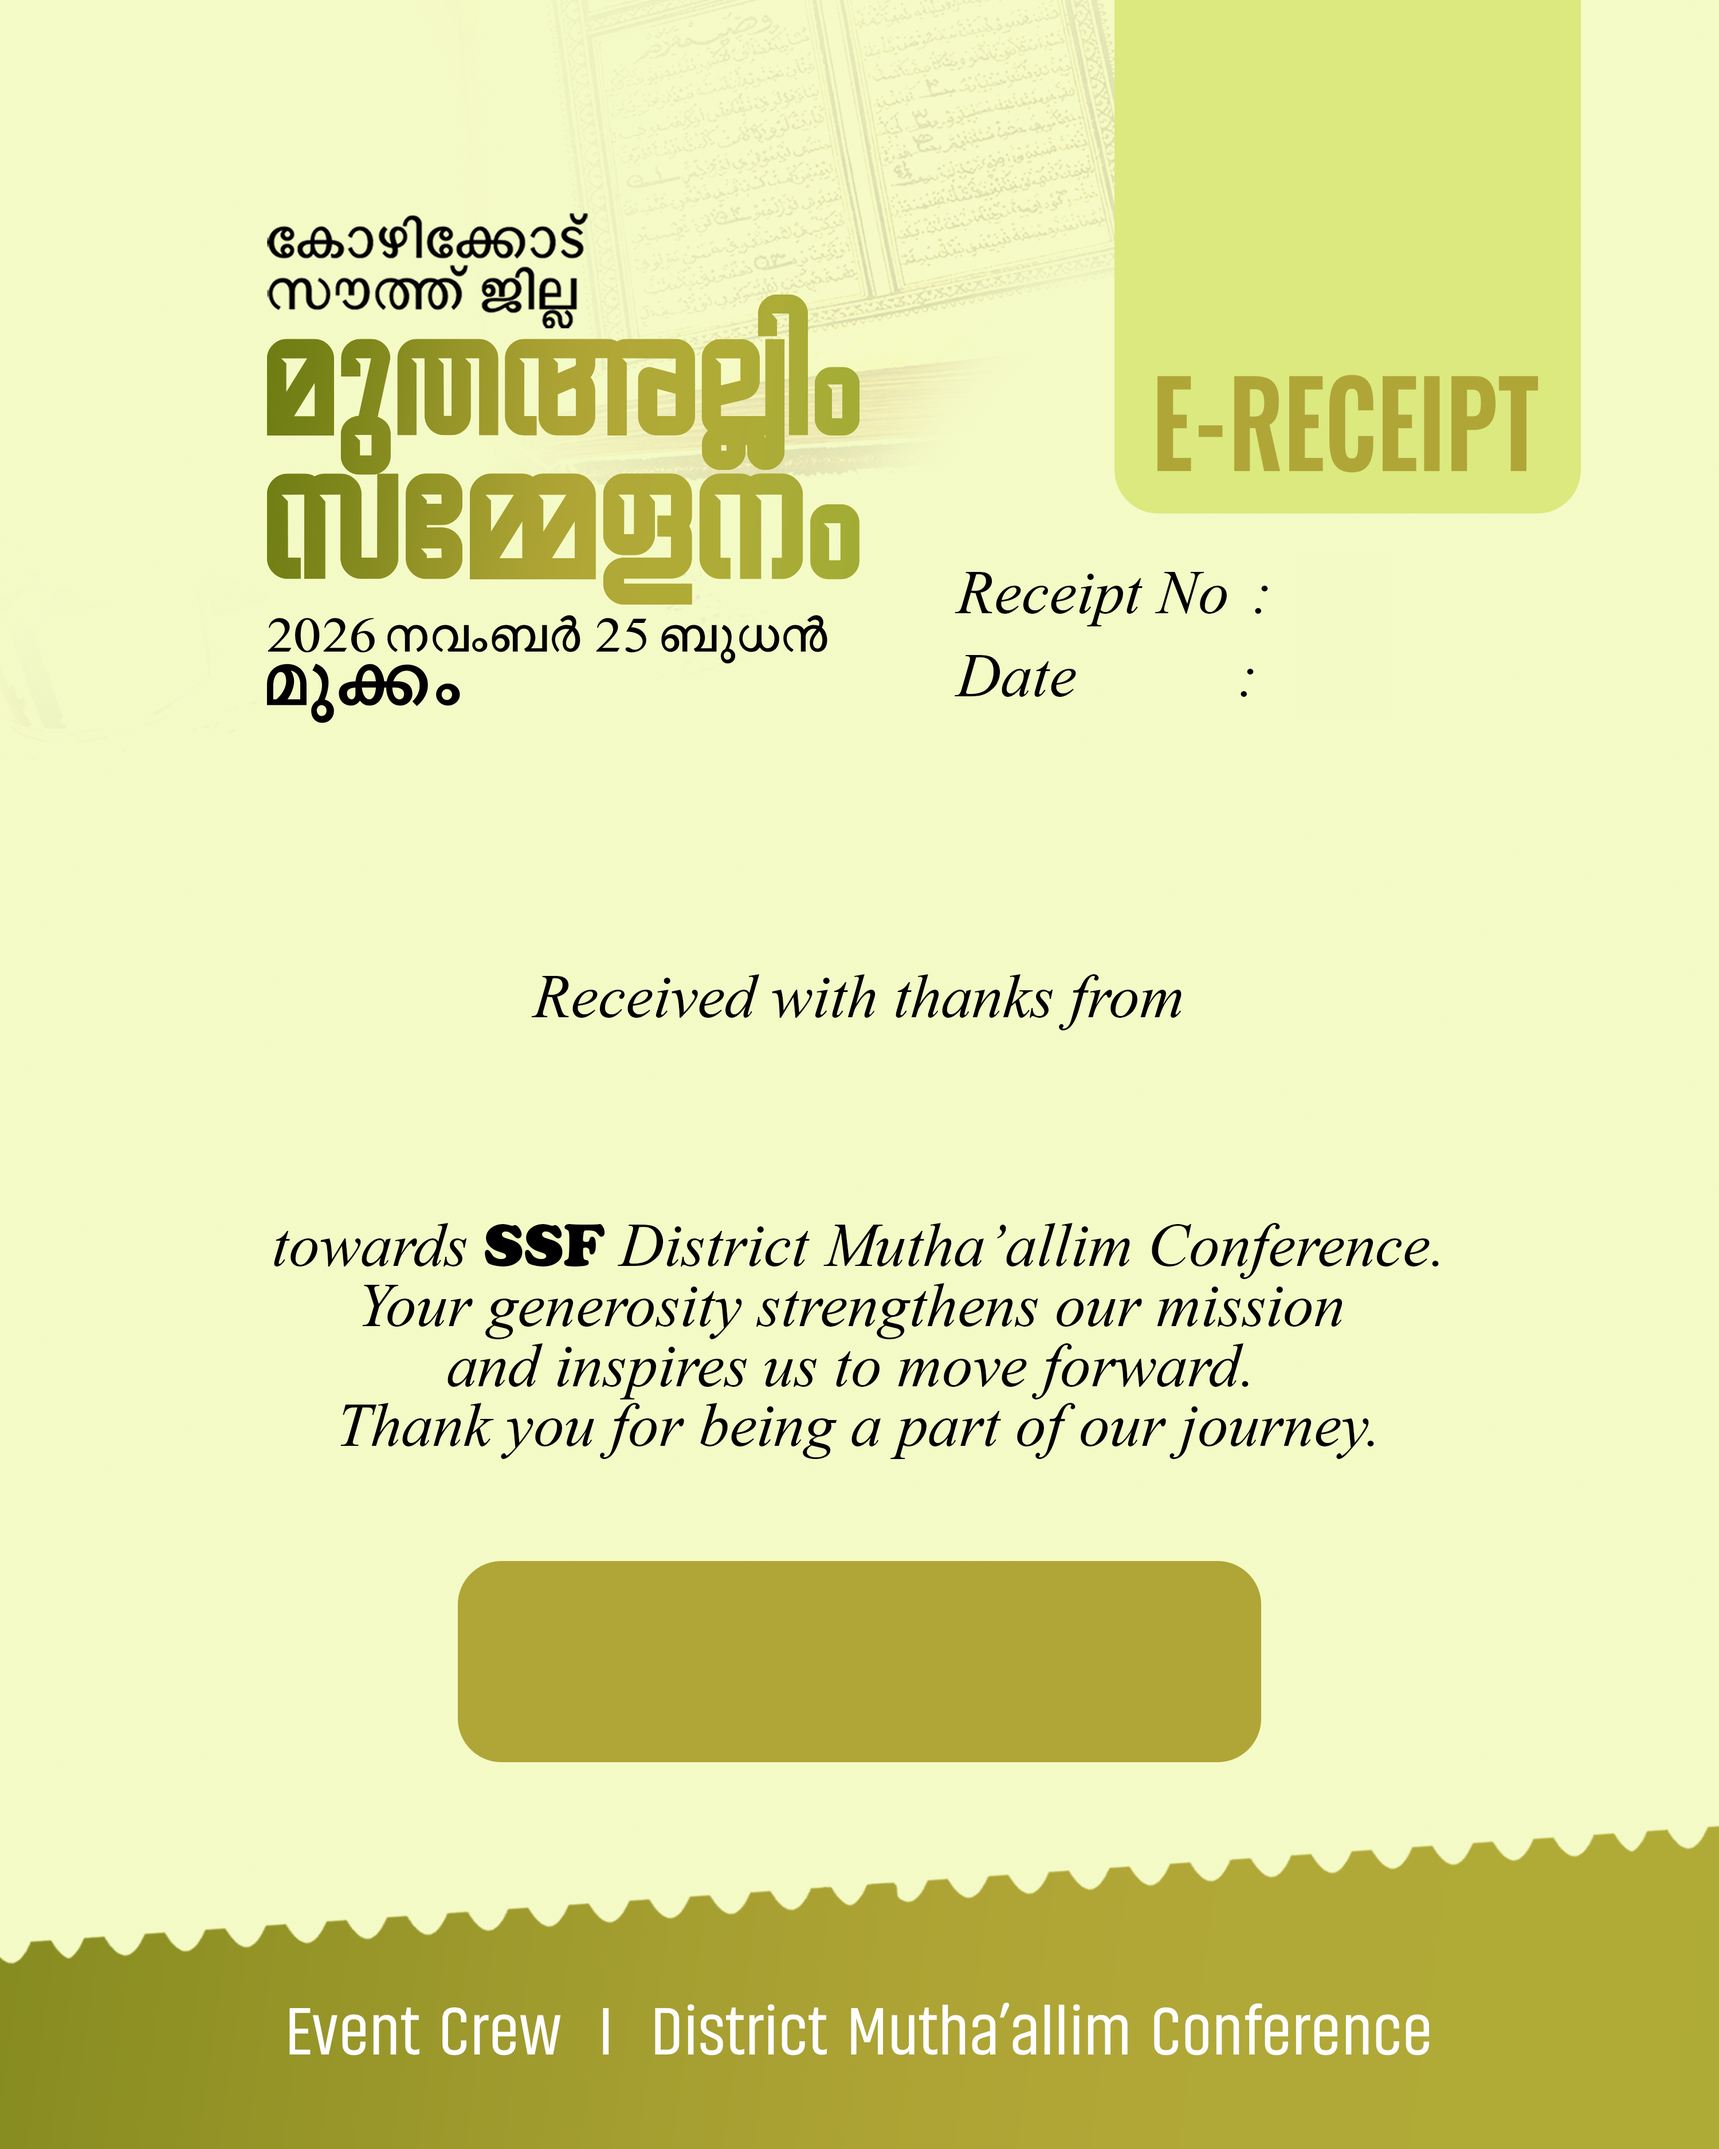
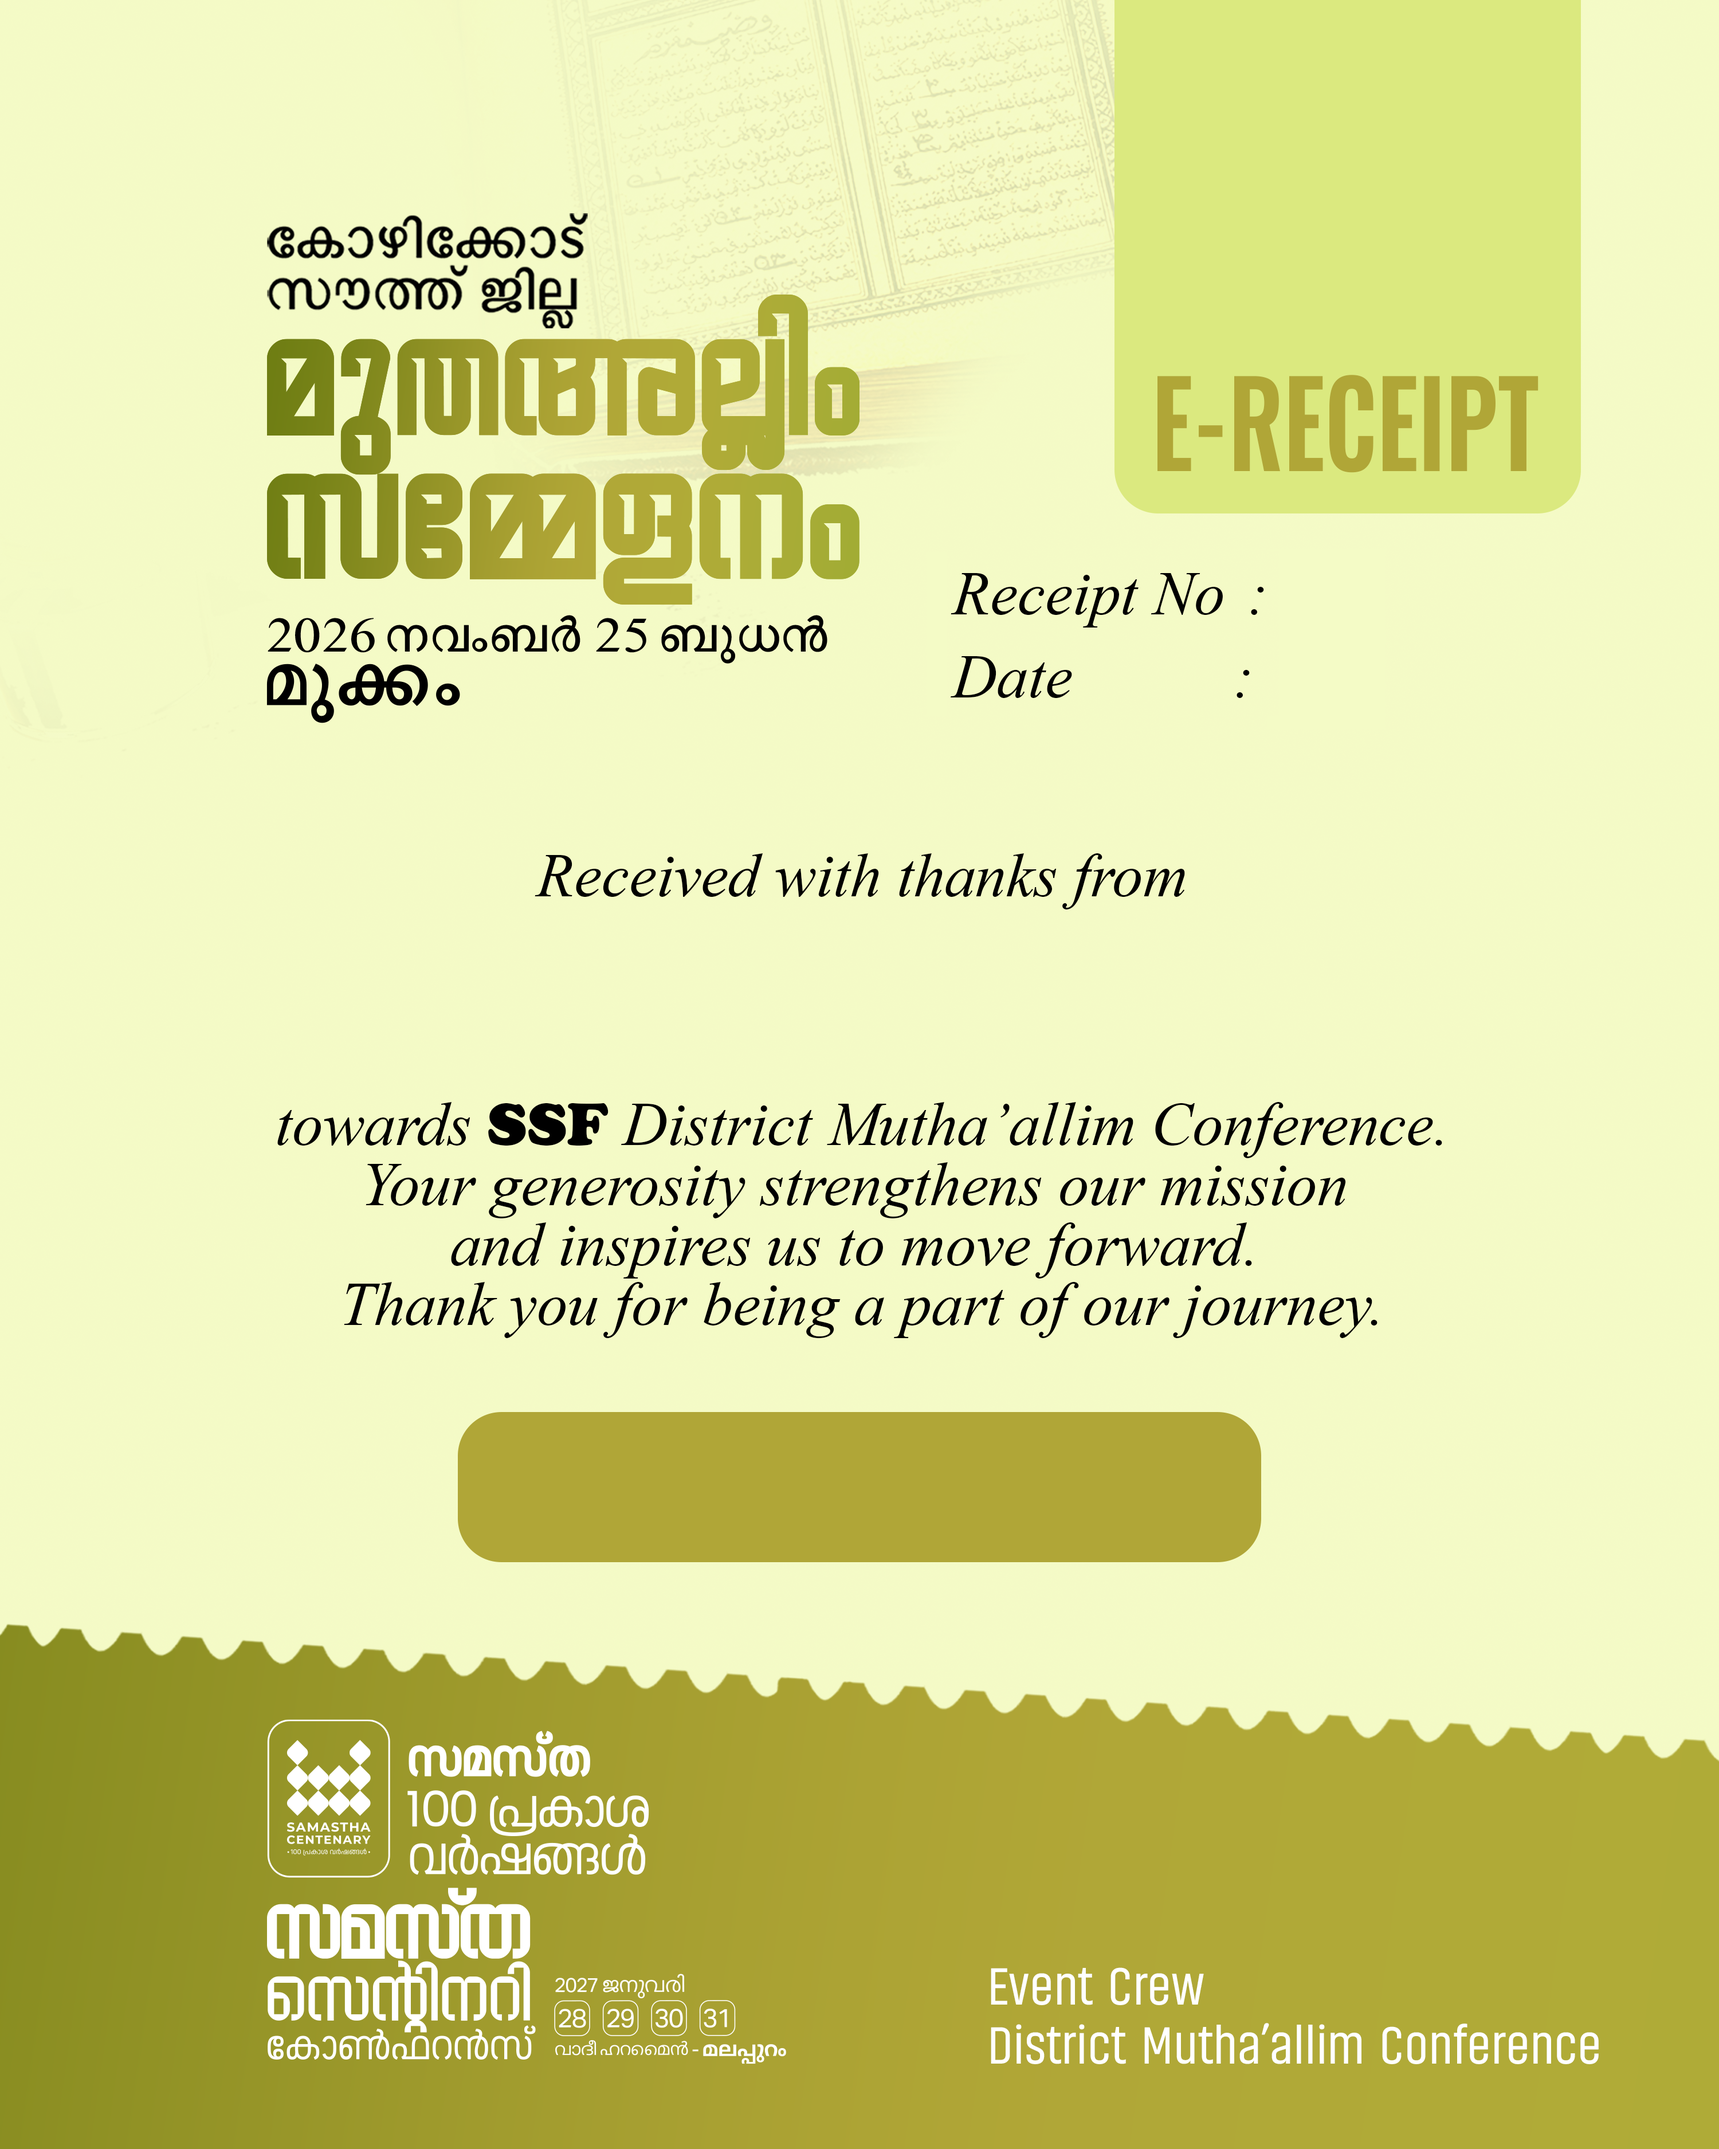
mr change

diff --git a/src/components/IncomeReceipt.tsx b/src/components/IncomeReceipt.tsx
@@ -140,7 +140,7 @@ export function IncomeReceipt({ receipt }: { receipt: ReceiptDetails }) {
         context,
         sender,
         width / 2,
-        canvas.height * 0.522,
+        canvas.height * 0.465,
         nameWidth,
         fitText(
           sender,
@@ -174,7 +174,7 @@ export function IncomeReceipt({ receipt }: { receipt: ReceiptDetails }) {
 
       const amountGroupWidth = rupeeWidth + iconGap + valueWidth;
       const amountLeft = (width - amountGroupWidth) / 2;
-      const amountY = canvas.height * 0.775;
+      const amountY = canvas.height * 0.696;
       drawText(context, '₹', amountLeft, amountY, rupeeWidth, rupeeFont, 'left', amountColor);
       drawText(
         context,

diff --git a/README.md b/README.md
@@ -12,7 +12,7 @@ Mobile-first event finance web application built with Next.js, Auth.js, MongoDB/
 
 ## Workflow
 
-Super Admin can add a team from that event's Teams tab, optionally setting its event-specific target; teams can be renamed and their event target edited there as well. Teams with no manager assignments in any event can also be removed from a team card. Teams are assigned per event: when adding managers to an event, the Super Admin can select one team and manager target for all selected managers or leave them unassigned. Existing event assignments can be edited per manager to change their team and target. For each event, the Super Admin can set an event-wide target, individual manager targets, and targets for teams. The Events page shows Managers, Teams, Sector, and Unit tabs with tab-specific filters; the share action includes only the selected tab's filtered results. It also shows collected income, target progress and remaining target balance for each event and ranks managers by income collected; manager cards include assigned team, expenses and cumulative handovers paid to the Super Admin. Admins can record manager handovers up to that manager's unhanded recorded income; income edits cannot reduce recorded income below completed handovers. Managers with no income or approved/pending expenses can be unassigned. The active event is the landing screen for assigned users and shows the event-wide goal to the Super Admin and the individual goal to each manager. After income is recorded, the app opens an e-receipt using `public/ereciept.png`; both managers and Super Admins can download or share authorized receipts from the receipt page and transaction history. Managers add income immediately, but expenses remain PENDING until approved by the Super Admin. Only approved expenses lower the displayed balance. An event cannot be marked completed while pending expenses remain.
+Super Admin can add a team from that event's Teams tab, optionally setting its event-specific target; teams can be renamed and their event target edited there as well. Teams with no manager assignments in any event can also be removed from a team card. Teams are assigned per event: when adding managers to an event, the Super Admin can select one team and manager target for all selected managers or leave them unassigned. Existing event assignments can be edited per manager to change their team and target. For each event, the Super Admin can set an event-wide target, individual manager targets, and targets for teams. The Events page shows Managers, Teams, Sector, and Unit tabs with tab-specific filters; the share action includes only the selected tab's filtered results. It also shows collected income, target progress and remaining target balance for each event and ranks managers by income collected; manager cards include assigned team, expenses and cumulative handovers paid to the Super Admin. Admins can record manager handovers up to that manager's unhanded recorded income; income edits cannot reduce recorded income below completed handovers. Managers with no income or approved/pending expenses can be unassigned. The active event is the landing screen for assigned users and shows the event-wide goal to the Super Admin and the individual goal to each manager. After income is recorded, the app opens an e-receipt using `public/MC Receipt.png`; both managers and Super Admins can download or share authorized receipts from the receipt page and transaction history. Managers add income immediately, but expenses remain PENDING until approved by the Super Admin. Only approved expenses lower the displayed balance. An event cannot be marked completed while pending expenses remain.
 
 ## Deploy
 
